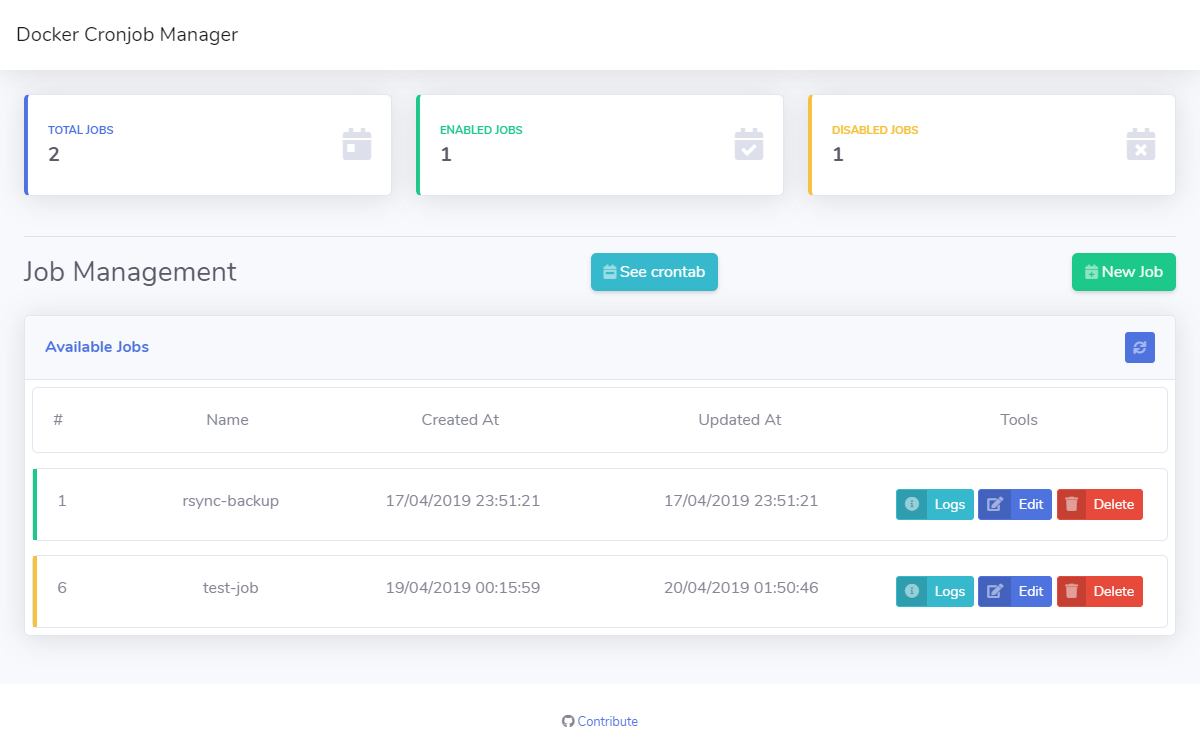
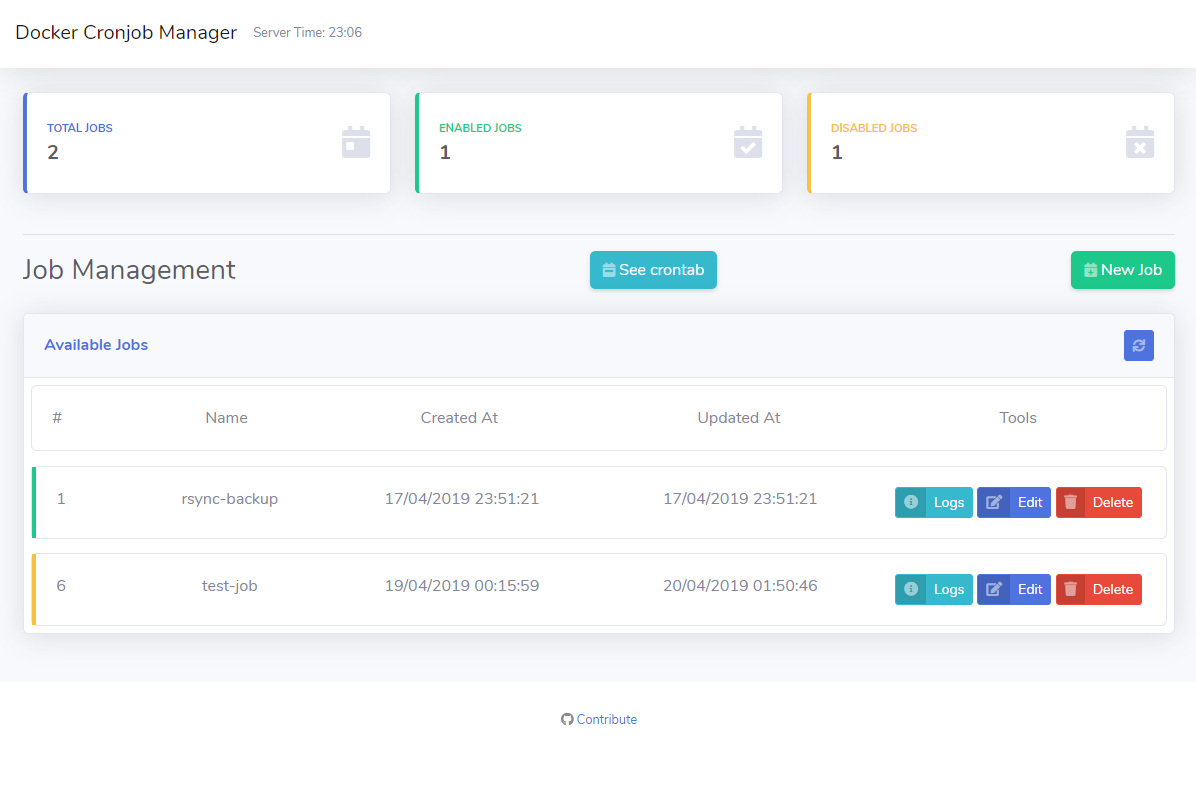
Display current server time on dashboard

diff --git a/public/index.html b/public/index.html
@@ -34,6 +34,7 @@
         <!-- Topbar -->
         <nav class="navbar navbar-expand navbar-light bg-white topbar mb-4 static-top shadow">
             <span class="navbar-brand">Docker Cronjob Manager</span>
+            <small>Server Time: {{ currentTime }}</small>
         </nav>
         <!-- End of Topbar -->
 
@@ -250,7 +251,7 @@
                 <input beth-bind="formObject.cron" type="text" class="form-control" id="txtJobSchedule" name="cron" aria-describedby="jobScheduleHelp" placeholder="* * * * *">
                 <small id="jobScheduleHelp" class="form-text text-muted">The crontab schedule for this job. Click <a href="https://crontab.guru/" target="_blank">here</a> to create a crontab.</small>
             </div>
-            
+
             <div class="form-check">
               <input beth-bind="formObject.active" type="checkbox" class="form-check-input" id="ckbJobActive" name="active">
               <label class="form-check-label" for="ckbJobActive">Enable Job</label>
@@ -290,12 +291,14 @@
   <script src="js/sb-admin-2.js"></script>
 
   <!-- Dashboard -->
+  <script src="modules/commons.js"></script>
   <script src="modules/dashboard/info.js"></script>
   <script src="modules/dashboard/find.js"></script>
   <script src="modules/dashboard/list.js"></script>
   <script src="modules/dashboard/form.js"></script>
   <script src="modules/dashboard/logs.js"></script>
   <script src="modules/dashboard/delete.js"></script>
+  <script src="modules/dashboard/time.js"></script>
 </body>
 
 </html>

diff --git a/public/modules/commons.js b/public/modules/commons.js
@@ -1,0 +1,22 @@
+const makeToast = (type, message) => {
+    $.toast({
+        text: message,
+        icon: type,
+        showHideTransition: 'fade',
+        allowToastClose: false,
+        hideAfter: 3000,
+        stack: 50,
+        position: 'top-right',
+        textAlign: 'left',
+        loader: true,
+        loaderBg: '#FFFFFF',
+    });
+}
+
+const formatDateTimeString = (date) => {
+    return new Date(Date.parse(date)).toLocaleString();
+}
+
+const formatServerTime = (date) => {
+    return new Date(Date.parse(date)).toLocaleString([], {hour: '2-digit', minute:'2-digit'});
+}

diff --git a/public/js/sb-admin-2.js b/public/js/sb-admin-2.js
@@ -47,18 +47,3 @@
   });
 
 })(jQuery); // End of use strict
-
-const makeToast = (type, message) => {
-  $.toast({
-      text: message,
-      icon: type,
-      showHideTransition: 'fade',
-      allowToastClose: false,
-      hideAfter: 3000,
-      stack: 50,
-      position: 'top-right',
-      textAlign: 'left',
-      loader: true,
-      loaderBg: '#FFFFFF',
-  });
-}

diff --git a/routes/routes.js b/routes/routes.js
@@ -18,6 +18,11 @@ const register = (app) => {
         res.json({message: err.message});
     });
 
+    app.get("/api/time", async (req, res) => {
+        res.status(200);
+        res.json({"data": new Date(), "message": ""});
+    });
+
     app.get("/api/jobs", async (req, res) => {
         let jobs = await jobDao.list();
 

diff --git a/public/modules/dashboard/time.js b/public/modules/dashboard/time.js
@@ -1,0 +1,13 @@
+var currentTime = "";
+
+const getCurrentTime = () => {
+    $.get(`api/time`, (response) => {
+        currentTime = formatServerTime(response.data);
+    }).fail((xhr) => {
+        makeToast('error', xhr.responseJSON.message);
+    });
+
+    setTimeout(getCurrentTime, 60000);
+}
+
+getCurrentTime();

diff --git a/public/modules/dashboard/delete.js b/public/modules/dashboard/delete.js
@@ -1,6 +1,5 @@
 const deleteJob = (job_id) => {
     findJobById(job_id, (job) => {
-        console.log(job);
         Swal.fire({
             title: `Deleting job: ${job.name} (id: ${job.id})`,
             text: "You are about to delete this job.",

diff --git a/public/modules/dashboard/list.js b/public/modules/dashboard/list.js
@@ -15,8 +15,4 @@ const getJobsList = () => {
     });
 }
 
-const formatDateTimeString = (date) => {
-    return new Date(Date.parse(date)).toLocaleString();
-}
-
 getJobsList();

diff --git a/README.md b/README.md
@@ -45,6 +45,12 @@ Retrieve information about crontab.
 http://your-host/api/info
 ```
 
+- `GET` Time<br/>
+Get current server date and time information.
+```
+http://your-host/api/time
+```
+
 - `GET` Jobs<br/>
 Retrieve a list of existing jobs.
 ```
@@ -106,7 +112,7 @@ http://your-host/api/jobs/{id}
 | active      | Boolean | If the job is enabled or not.            |
 
 ## To Do
-- Add current container time to web interface
+- Have more ideas...
 
 ## License
 
